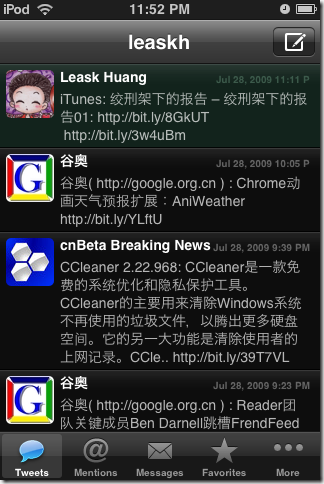
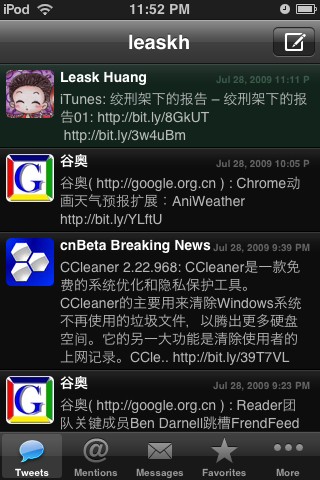
Add aggressive image dedupe profile

diff --git a/tools/dedupe_assets_with_clip.py b/tools/dedupe_assets_with_clip.py
@@ -56,6 +56,11 @@ CONFIRMED_RELAXED_MERGES = [
         'source': 'assets/archived/0000/Z_Over_Mac.jpg',
         'target': 'assets/archived/0000/C_PB_Mac.jpg',
     },
+    {
+        'kind': 'promote_archived_into_img',
+        'source': 'assets/archived/0000/IMG_0091115777wer[3].png',
+        'target': 'assets/img/2010/09/img_0091115777wer_thumb5b15d.png',
+    },
 ]
 ORIGINAL_HINT_RE = re.compile(
     r'原圖|原图|full\s*size|fullsize|原大|点击看大图|點擊看大圖|看大圖|看大图|大圖|大图',
@@ -118,6 +123,22 @@ PROFILES = {
         stem_clip_ratio_min=0.25,
         stem_clip_aspect_max=0.2,
         same_size_mae_max=5.5,
+    ),
+    'aggressive': ProfileConfig(
+        name='aggressive',
+        nn_count=40,
+        dhash_max=8,
+        dhash_cosine_min=0.87,
+        dhash_aspect_max=0.08,
+        clip_very_high_min=0.985,
+        clip_very_high_aspect_max=0.1,
+        clip_hash_min=0.975,
+        clip_hash_dhash_max=18,
+        clip_hash_aspect_max=0.16,
+        stem_clip_min=0.94,
+        stem_clip_ratio_min=0.2,
+        stem_clip_aspect_max=0.24,
+        same_size_mae_max=7.0,
     ),
 }
 
@@ -819,6 +840,12 @@ def apply_confirmed_relaxed_merges() -> dict[str, int]:
         target_path = ROOT / item['target']
         source_ref = '/' + item['source']
         target_ref = '/' + item['target']
+        if kind in {'promote_archived_into_img', 'merge_img_refs'} and not target_path.exists():
+            results['skipped_missing_target'] += 1
+            continue
+        if not source_path.exists():
+            results['skipped_missing_source'] += 1
+            continue
         if kind == 'promote_archived_into_img':
             safe_sync_file(source_path, target_path)
             if not is_repo_ref_present(source_ref):
